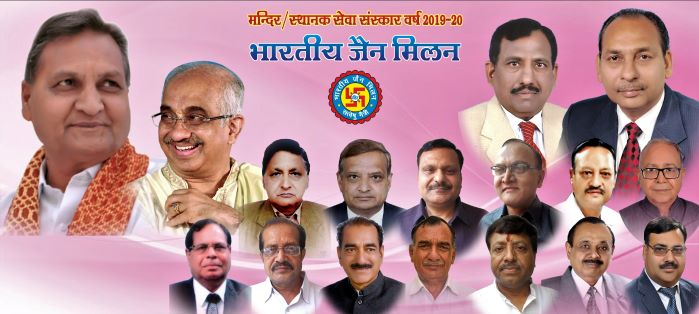
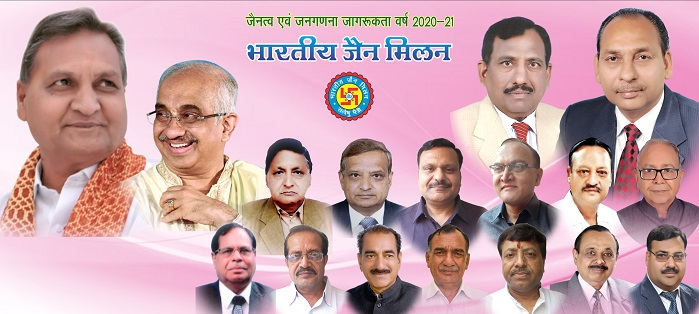
Header images + varsh changes

diff --git a/bhartiyajainmilan/css/style.css b/bhartiyajainmilan/css/style.css
@@ -615,7 +615,7 @@ p {
 	bottom: 12px;
 	left: 12px;
 	padding: 4px 4px;
-	width: 101px;
+	width: 121px;
 	background-color: #000000;
 	opacity: .7;
 	border-radius: 10px;

diff --git a/bhartiyajainmilan/protected/views/site/index.php b/bhartiyajainmilan/protected/views/site/index.php
@@ -12,14 +12,16 @@
         <li><img src="<?php echo Yii::app()->request->baseUrl; ?>/images/head-slider/4.jpg?v=<?php echo Yii::app()->params['version'] ?>" alt=""/></li>
         <li><img src="<?php echo Yii::app()->request->baseUrl; ?>/images/head-slider/5.jpg?v=<?php echo Yii::app()->params['version'] ?>" alt=""/></li>
         <li><img src="<?php echo Yii::app()->request->baseUrl; ?>/images/head-slider/6.jpg?v=<?php echo Yii::app()->params['version'] ?>" alt=""/></li>
-		<li><img src="<?php echo Yii::app()->request->baseUrl; ?>/images/head-slider/7.jpg?v=<?php echo Yii::app()->params['version'] ?>" alt=""/></li>
+		    <li><img src="<?php echo Yii::app()->request->baseUrl; ?>/images/head-slider/7.jpg?v=<?php echo Yii::app()->params['version'] ?>" alt=""/></li>
         <li><img src="<?php echo Yii::app()->request->baseUrl; ?>/images/head-slider/8.jpg?v=<?php echo Yii::app()->params['version'] ?>" alt=""/></li>
+        <li><img src="<?php echo Yii::app()->request->baseUrl; ?>/images/head-slider/9.jpg?v=<?php echo Yii::app()->params['version'] ?>" alt=""/></li>
+        <li><img src="<?php echo Yii::app()->request->baseUrl; ?>/images/head-slider/10.jpg?v=<?php echo Yii::app()->params['version'] ?>" alt=""/></li>
       </ul>
       <a href="#" class="play">stop</a> </div>
 	<div class="fright hindi">
       <div class="slogan-1">
       	<div class="stitle-1">Bhartiya Jain Milan</div>
-        <div class="stitle-2">Mandir/Sthanak Seva Sanskar Varsh</div>
+        <div class="stitle-2">Jainatv & Janganna Jaagrukta Varsh</div>
         <div class="padding"><a class="button-top png" href="#"><span class="png"><span class="png">more</span></span> </a></div>
       </div>
       <div class="slogan-2 ">

diff --git a/bhartiyajainmilan/settings.php b/bhartiyajainmilan/settings.php
@@ -8,6 +8,6 @@
 			'addImgPath'=>'/resources/advertisement-img',
 			'tempPath'=>'/resources/temp',
 			'favicon'=>'/images/favicon.ico',
-			'version'=>'1.1.3'
+			'version'=>'1.1.4'
 		);
 ?>
